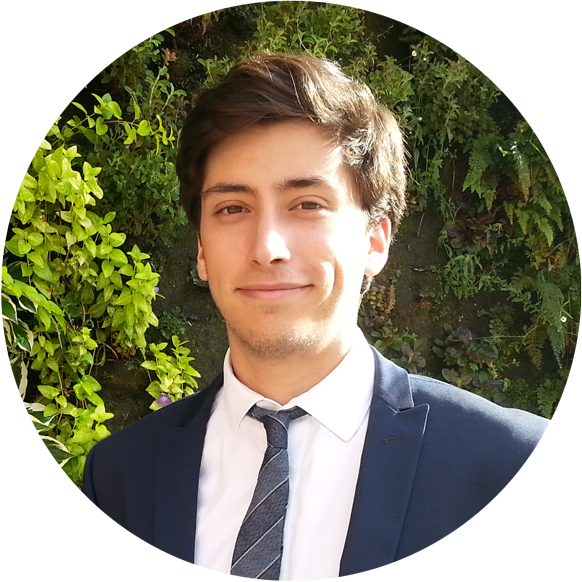
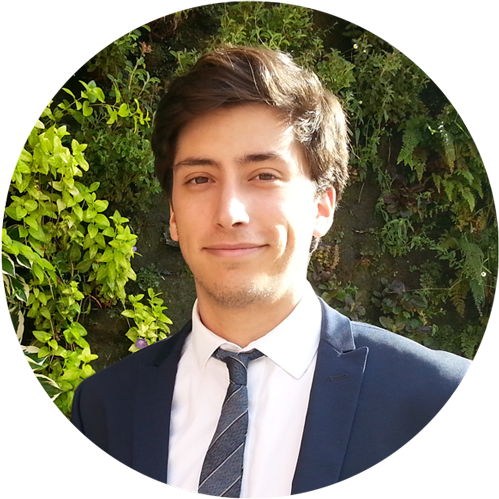
reduced img files, animations are off

diff --git a/css/main.css b/css/main.css
@@ -57,14 +57,14 @@
 
 /* BASIC */
 
-
+    /*
     article {
         display: table-cell;
         vertical-align: middle;
         width: 50%;
         padding: 1rem;
     } 
-    
+    */
     /* Language Buttons */
 
     .lang {
@@ -238,10 +238,10 @@
 	}
 
 	#wrapper {
-		-moz-animation: wrapper 1s forwards;
-		-webkit-animation: wrapper 1s forwards;
-		-ms-animation: wrapper 1s forwards;
-		animation: wrapper 1s forwards;
+		-moz-animation: wrapper 0s forwards;
+		-webkit-animation: wrapper 0s forwards;
+		-ms-animation: wrapper 0s forwards;
+		animation: wrapper 0s forwards;
 		height: 100%;
 		left: 0;
 		opacity: 0;
@@ -529,10 +529,10 @@
 	}
 
 	#header {
-		-moz-animation: header 1.5s 0s forwards;
-		-webkit-animation: header 1.5s 0s forwards;
-		-ms-animation: header 1.5s 0s forwards;
-		animation: header 1.5s 0s forwards;
+		-moz-animation: header 0s 0s forwards;
+		-webkit-animation: header 0s 0s forwards;
+		-ms-animation: header 0s 0s forwards;
+		animation: header 0s 0s forwards;
 		-moz-backface-visibility: hidden;
 		-webkit-backface-visibility: hidden;
 		-ms-backface-visibility: hidden;
@@ -569,10 +569,10 @@
 		}
 
 			#header nav li {
-				-moz-animation: nav-icons 0.5s ease-in-out forwards;
-				-webkit-animation: nav-icons 0.5s ease-in-out forwards;
-				-ms-animation: nav-icons 0.5s ease-in-out forwards;
-				animation: nav-icons 0.5s ease-in-out forwards;
+				-moz-animation: nav-icons 0s ease-in-out forwards;
+				-webkit-animation: nav-icons 0s ease-in-out forwards;
+				-ms-animation: nav-icons 0s ease-in-out forwards;
+				animation: nav-icons 0s ease-in-out forwards;
 				-moz-backface-visibility: hidden;
 				-webkit-backface-visibility: hidden;
 				-ms-backface-visibility: hidden;
@@ -589,7 +589,8 @@
 				top: 0;
 				width: 5.35em;
 			}
-
+                
+                /*
 				#header nav li:nth-child(1) {
 					-moz-animation-delay: .5s;
 					-webkit-animation-delay: .5s;
@@ -659,6 +660,7 @@
 					-ms-animation-delay: 2.75s;
 					animation-delay: 2.75s;
 				}
+                */
 
 			#header nav a {
 				-webkit-tap-highlight-color: transparent;
@@ -842,7 +844,8 @@
 		}
 
 		/* BG */
-
+        
+            /*
 			@-moz-keyframes bg {
 				0% {
 					-moz-transform: translate3d(0,0,0);
@@ -911,6 +914,7 @@
 		#bg {
 			background-size: 650px auto;
 		} 
+        */
 }
 
 
@@ -1009,6 +1013,7 @@
 				transform: translate3d(-750px,0,0);
 			}
 		}
+        
 }
 
 
@@ -1119,10 +1124,10 @@
         /* I want to stop every animation for 736px and under */
         
         #wrapper {
-            -moz-animation: wrapper .1s forwards;
-            -webkit-animation: wrapper .1s forwards;
-            -ms-animation: wrapper .1s forwards;
-            animation: wrapper .1s forwards;
+            -moz-animation: wrapper 0s forwards;
+            -webkit-animation: wrapper 0s forwards;
+            -ms-animation: wrapper 0s forwards;
+            animation: wrapper 0s forwards;
             height: 110%;
             left: 0;
             opacity: 0;
@@ -1132,19 +1137,19 @@
 	    }
         
         #header {
-            -moz-animation: header 0.1s 0s forwards;
-            -webkit-animation: header 0.1s 0s forwards;
-            -ms-animation: header 0.1s 0s forwards;
-            animation: header 0.1s 0s forwards;
+            -moz-animation: header 0s 0s forwards;
+            -webkit-animation: header 0s 0s forwards;
+            -ms-animation: header 0s 0s forwards;
+            animation: header 0s 0s forwards;
         }
         
         #header nav li {
-            -moz-animation: nav-icons 0.1s ease-in-out forwards;
-            -webkit-animation: nav-icons 0.1s ease-in-out forwards;
-            -ms-animation: nav-icons 0.1s ease-in-out forwards;
-            animation: nav-icons 0.1s ease-in-out forwards;
+            -moz-animation: nav-icons 0s ease-in-out forwards;
+            -webkit-animation: nav-icons 0s ease-in-out forwards;
+            -ms-animation: nav-icons 0s ease-in-out forwards;
+            animation: nav-icons 0s ease-in-out forwards;
         }
-        
+        /*
                 #header nav li:nth-child(1) {
 					-moz-animation-delay: .1s;
 					-webkit-animation-delay: .1s;
@@ -1214,7 +1219,7 @@
 					-ms-animation-delay: .1s;
 					animation-delay: .1s;
 				}
-
+            */
 		#bg {
 			background-size: 320px auto;
 			width: 900px;

diff --git a/_layouts/default.html b/_layouts/default.html
@@ -8,7 +8,7 @@
 		<link rel="stylesheet" href="{{site.baseurl}}css/main.css" />
 		<!--[if lte IE 8]><link rel="stylesheet" href="assets/css/ie8.css" /><![endif]-->
 		<!--[if lte IE 9]><link rel="stylesheet" href="assets/css/ie9.css" /><![endif]-->
-        <link rel="icon" type="image/png" href="{{site.baseurl}}images/favicon.png">
+        <link rel="icon" type="image/jpg" href="{{site.baseurl}}images/favicon.jpg">
 	</head>
 	<body class="loading">
         <!-- Google Tag Manager -->
@@ -18,7 +18,7 @@
         new Date().getTime(),event:'gtm.js'});var f=d.getElementsByTagName(s)[0],
         j=d.createElement(s),dl=l!='dataLayer'?'&l='+l:'';j.async=true;j.src=
         '//www.googletagmanager.com/gtm.js?id='+i+dl;f.parentNode.insertBefore(j,f);
-        })(window,document,'script','dataLayer','GTM-T66FQN');</script>
+        })(window,document,'script','dataLayer','GTM-T66FQN');</script> 
         <!-- End Google Tag Manager -->
 		<div id="wrapper">
 			<div id="bg"></div>

diff --git a/_layouts/default-bio.html b/_layouts/default-bio.html
@@ -8,7 +8,7 @@
 		<link rel="stylesheet" href="{{site.baseurl}}css/main-bio.css" />
 		<!--[if lte IE 8]><link rel="stylesheet" href="assets/css/ie8.css" /><![endif]-->
 		<!--[if lte IE 9]><link rel="stylesheet" href="assets/css/ie9.css" /><![endif]-->
-        <link rel="icon" type="image/png" href="{{site.baseurl}}images/favicon.png">
+        <link rel="icon" type="image/jpg" href="{{site.baseurl}}images/favicon.jpg">
 	</head>
 	<body class="loading">
         <!-- Google Tag Manager -->

diff --git a/_layouts/default-es.html b/_layouts/default-es.html
@@ -8,7 +8,7 @@
 		<link rel="stylesheet" href="{{site.baseurl}}css/main.css" />
 		<!--[if lte IE 8]><link rel="stylesheet" href="assets/css/ie8.css" /><![endif]-->
 		<!--[if lte IE 9]><link rel="stylesheet" href="assets/css/ie9.css" /><![endif]-->
-        <link rel="icon" type="image/png" href="{{site.baseurl}}images/favicon.png">
+        <link rel="icon" type="image/jpg" href="{{site.baseurl}}images/favicon.jpg">
 	</head>
 	<body class="loading">
         <!-- Google Tag Manager -->
